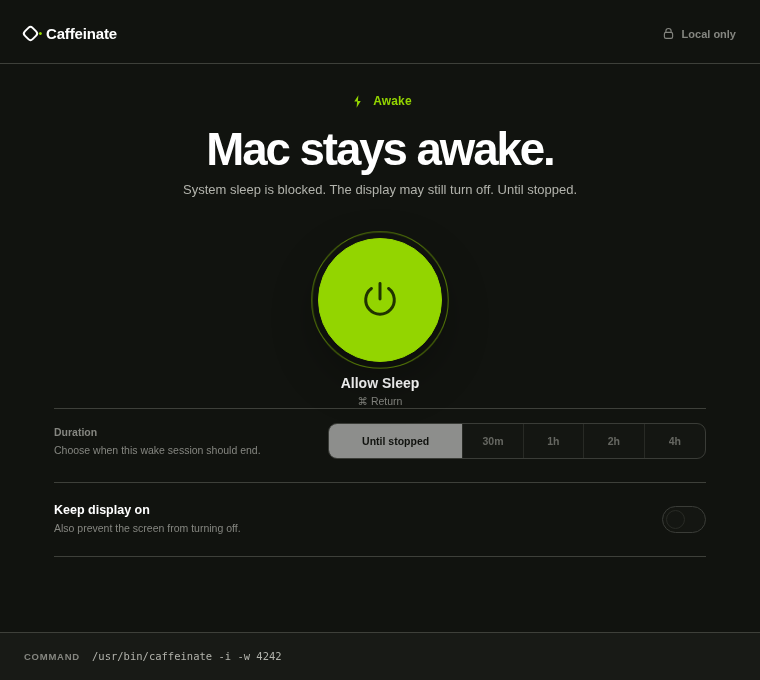
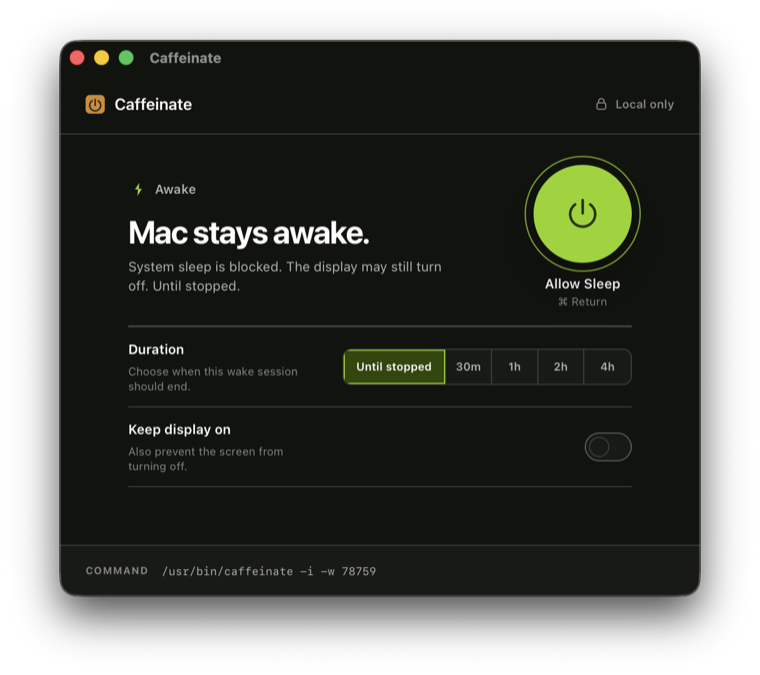
docs: refresh website and README screenshots
Replace the stale React-era website assets and the pre-Tailwind
Svelte screenshots with captures of the current Carbon + Volt UI.
Update the website image dimensions to the new 1424x1266 source.

diff --git a/website/index.html b/website/index.html
@@ -89,8 +89,8 @@
             <div class="hero-stage-mark" aria-hidden="true">AWAKE</div>
             <img
               src="assets/caffeinate-active.png"
-              width="1664"
-              height="1346"
+              width="1424"
+              height="1266"
               alt="Caffeinate active state showing idle sleep blocked and an Allow Sleep button"
             />
           </div>
@@ -151,8 +151,8 @@
             <figure id="ready-panel" role="tabpanel" aria-labelledby="ready-tab" data-demo-panel="ready">
               <img
                 src="assets/caffeinate-ready.png"
-                width="1664"
-                height="1346"
+                width="1424"
+                height="1266"
                 alt="Caffeinate ready state showing sleep allowed and a Keep Mac Awake button"
                 loading="lazy"
               />
@@ -167,8 +167,8 @@
             >
               <img
                 src="assets/caffeinate-active.png"
-                width="1664"
-                height="1346"
+                width="1424"
+                height="1266"
                 alt="Caffeinate awake state showing idle sleep blocked and an Allow Sleep button"
                 loading="lazy"
               />
